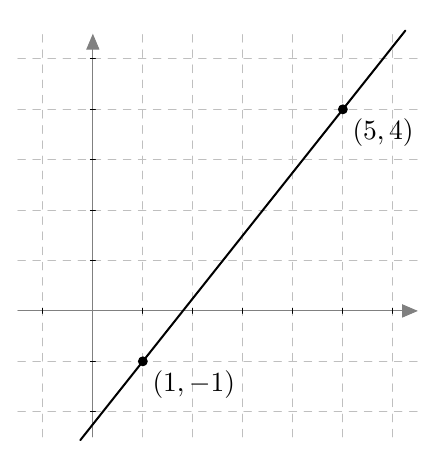
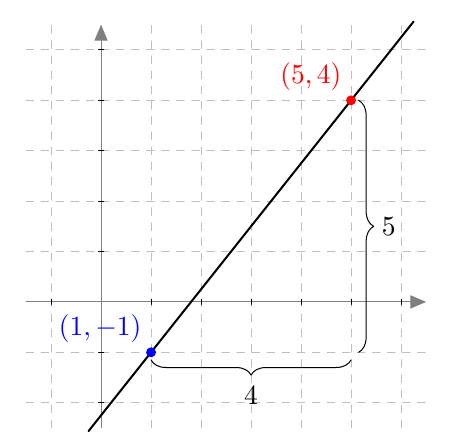
Muoks

diff --git a/kurssit/maa5/luku1/index.html b/kurssit/maa5/luku1/index.html
@@ -519,7 +519,7 @@ topnav: maa5
                 <img src="/kurssit/maa5/kuvat/k010.png" max-width: 100%; width: auto; height: auto;/>
                 <br>
                 Yritetään kuitenkin muodostaa suoran $L$ yhtälön ratkaistu muoto $y = kx + h$ toisella tavalla. Lasketaan ensin suoran kulmakerroin:
-                $$k = \frac{y_2-y_1}{x_2-x_1} = \frac{4-(-1)}{5-1} = \frac{5}{4}.$$
+                $$k = \frac{\textcolor{red}{y_2}-\textcolor{blue}{y_1}}{\textcolor{red}{x_2}-\textcolor{blue}{x_1}} = \frac{\textcolor{red}{4}-(\textcolor{blue}{-1})}{\textcolor{red}{5}-\textcolor{blue}{1}} = \frac{5}{4}.$$
                 Suoran $L$ yhtälö on siis muotoa
                 $$y = \frac{5}{4}x + h.$$
                 Vakion $h$ arvo saadaan selville esimerkiksi tiedosta, että suora $L$ kulkee pisteen $(1,-1)$ kautta. Siis
